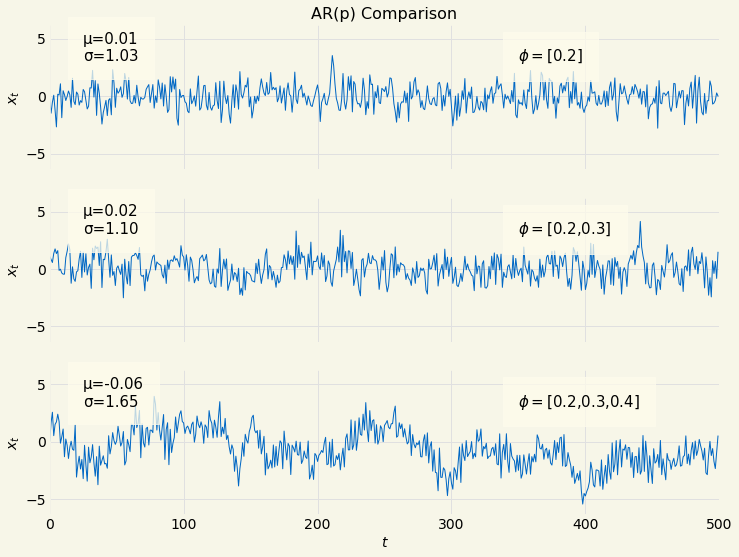
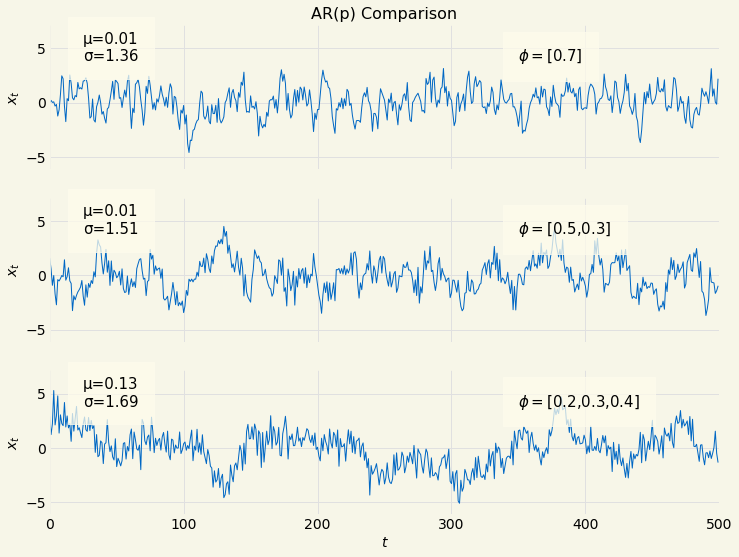
started arima example

diff --git a/hydrogen_notebooks/algorithmic_trading/mean_reversion/arma_acf_pacf.py b/hydrogen_notebooks/algorithmic_trading/mean_reversion/arma_acf_pacf.py
@@ -23,10 +23,10 @@ n = 10000
 
 # ##
 
-φ1 = numpy.array([0.2])
+φ1 = numpy.array([0.7])
 ar1 = arima.ar_generate_sample(φ1, n)
 
-φ2 = numpy.array([0.2, 0.3])
+φ2 = numpy.array([0.5, 0.3])
 ar2 = arima.ar_generate_sample(φ2, n)
 
 φ3 = numpy.array([0.2, 0.3, 0.4])
@@ -44,10 +44,34 @@ arima.timeseries_comparison_plot(samples, params, 500, title, plot_name)
 
 # %%
 
-θ1 = numpy.array([0.2])
+title = f"AR(1) ACF-PACF Comparison: " + r"$\phi=$"+f"{numpy.array2string(φ1, precision=2, separator=',')}"
+plot_name = "acf_pacf_ar_1_pacf_acf_comparison"
+max_lag = 10
+ylim = [-0.1, 1.1]
+arima.acf_pcf_plot(title, ar1, ylim, max_lag, plot_name)
+
+# %%
+
+title = f"AR(2) ACF-PACF Comparison: " + r"$\phi=$"+f"{numpy.array2string(φ2, precision=2, separator=',')}"
+plot_name = "acf_pacf_ar_2_pacf_acf_comparison"
+max_lag = 10
+ylim = [-0.1, 1.1]
+arima.acf_pcf_plot(title, ar2, ylim, max_lag, plot_name)
+
+# %%
+
+title = f"AR(3) ACF-PACF Comparison: " + r"$\phi=$"+f"{numpy.array2string(φ3, precision=2, separator=',')}"
+plot_name = "acf_pacf_ar_3_pacf_acf_comparison"
+max_lag = 10
+ylim = [-0.1, 1.1]
+arima.acf_pcf_plot(title, ar3, ylim, max_lag, plot_name)
+
+# %%
+
+θ1 = numpy.array([0.7])
 ma1 = arima.ma_generate_sample(θ1, n)
 
-θ2 = numpy.array([0.2, 0.3])
+θ2 = numpy.array([0.5, 0.3])
 ma2 = arima.ma_generate_sample(θ2, n)
 
 θ3 = numpy.array([0.2, 0.3, 0.4])
@@ -62,3 +86,27 @@ params = [r"$\theta=$"+f"{numpy.array2string(θ1, precision=2, separator=',')}",
 title = "MA(q) Comparison"
 plot_name = "acf_pacf_ma_comparison"
 arima.timeseries_comparison_plot(samples, params, 500, title, plot_name)
+
+# %%
+
+title = f"MA(1) ACF-PACF Comparison: " + r"$\theta=$"+f"{numpy.array2string(θ1, precision=2, separator=',')}"
+plot_name = "acf_pacf_ma_1_pacf_acf_comparison"
+max_lag = 10
+ylim = [-1.1, 1.1]
+arima.acf_pcf_plot(title, ma1, ylim, max_lag, plot_name)
+
+# %%
+
+title = f"MA(2) ACF-PACF Comparison: " + r"$\theta=$"+f"{numpy.array2string(θ2, precision=2, separator=',')}"
+plot_name = "acf_pacf_ma_2_pacf_acf_comparison"
+max_lag = 10
+ylim = [-1.1, 1.1]
+arima.acf_pcf_plot(title, ma2, ylim, max_lag, plot_name)
+
+# %%
+
+title = f"MA(3) ACF-PACF Comparison: " + r"$\theta=$"+f"{numpy.array2string(θ3, precision=2, separator=',')}"
+plot_name = "acf_pacf_ma_3_pacf_acf_comparison"
+max_lag = 10
+ylim = [-1.1, 1.1]
+arima.acf_pcf_plot(title, ma3, ylim, max_lag, plot_name)

diff --git a/lib/arima.py b/lib/arima.py
@@ -22,6 +22,10 @@ def arma_estimate_parameters(samples, order):
     model = sm.tsa.ARMA(samples, order).fit(trend='nc', disp=0)
     return model.params
 
+def partial_autocorrelation(x, max_lag):
+    pacf, _ = sm.regression.yule_walker(x, order=max_lag, method='mle')
+    return pacf
+
 def autocorrelation(x):
     n = len(x)
     x_shifted = x - x.mean()
@@ -49,3 +53,37 @@ def timeseries_comparison_plot(samples, params, tmax, title, plot_name):
         axis[i].set_xlim([0.0, tmax])
         axis[i].plot(time, samples[i,:tmax], lw=1.0)
     config.save_post_asset(figure, "mean_reversion", plot_name)
+
+def acf_pcf_plot(title, samples, ylim, max_lag, plot):
+    figure, axis = pyplot.subplots(figsize=(10, 7))
+    acf = numpy.real(autocorrelation(samples))[:max_lag]
+    pacf = partial_autocorrelation(samples, max_lag)
+    axis.set_title(title)
+    axis.set_xlabel("Time Lag (τ)")
+    axis.set_xlim([-0.1, max_lag])
+    axis.set_ylim(ylim)
+    axis.plot(range(max_lag), acf, label="ACF")
+    axis.plot(range(1, max_lag+1), pacf, label="PACF")
+    axis.legend(fontsize=16)
+    config.save_post_asset(figure, "mean_reversion", plot)
+
+# ADF Test
+
+def df_test(series):
+    adfuller(series, 'nc')
+
+def adf_test(series):
+    adfuller(series, 'c')
+
+def adf_test_with_trend(series):
+    adfuller(series, 'ct')
+
+def adfuller(series, test_type):
+    adf_result = stattools.adfuller(series, regression=test_type)
+    print('ADF Statistic: %f' % adf_result[0])
+    print('p-value: %f' % adf_result[1])
+    isStationary = adf_result[0] < adf_result[4]["5%"]
+    print(f"Is Stationary at 5%: {isStationary}")
+    print("Critical Values")
+    for key, value in adf_result[4].items():
+	       print('\t%s: %.3f' % (key, value))

diff --git a/hydrogen_notebooks/algorithmic_trading/mean_reversion/arima_example.py b/hydrogen_notebooks/algorithmic_trading/mean_reversion/arima_example.py
@@ -1,0 +1,43 @@
+# %%
+# Example taken from Time Series Forecasting with Python page 212
+
+%load_ext autoreload
+%autoreload 2
+
+import os
+import sys
+import numpy
+import pandas
+from matplotlib import pyplot
+from lib import regression as reg
+from lib import stats
+from lib import config
+from lib import var
+from lib import arima
+from statsmodels.tsa.arima_model import ARIMA as pyarima
+
+pyplot.style.use(config.glyfish_style)
+
+wd = os.getcwd()
+
+# %%
+
+def plot(df):
+    figure, axis = pyplot.subplots(nrows=4, ncols=2, figsize=(10, 8))
+    for i, axis in enumerate(axis.flatten()):
+        data = df[df.columns[i]]
+        axis.plot(data)
+        axis.set_title(df.columns[i], fontsize=12)
+        axis.tick_params(axis="x", labelsize=8)
+        axis.tick_params(axis="y", labelsize=8)
+    pyplot.tight_layout(pad=1.0)
+    config.save_post_asset(figure, "mean_reversion", "machine_learning_plus_macro_example_timeseries")
+
+
+def date_parser(date):
+    return pandas.datetime.strptime("201"+date, "%Y-%m")
+
+# %%
+
+filepath = os.path.join(wd, "data", "examples", "shampoo-sales.csv")
+df = pandas.read_csv(filepath, parse_dates=['Month'], index_col='Month', date_parser=date_parser)
